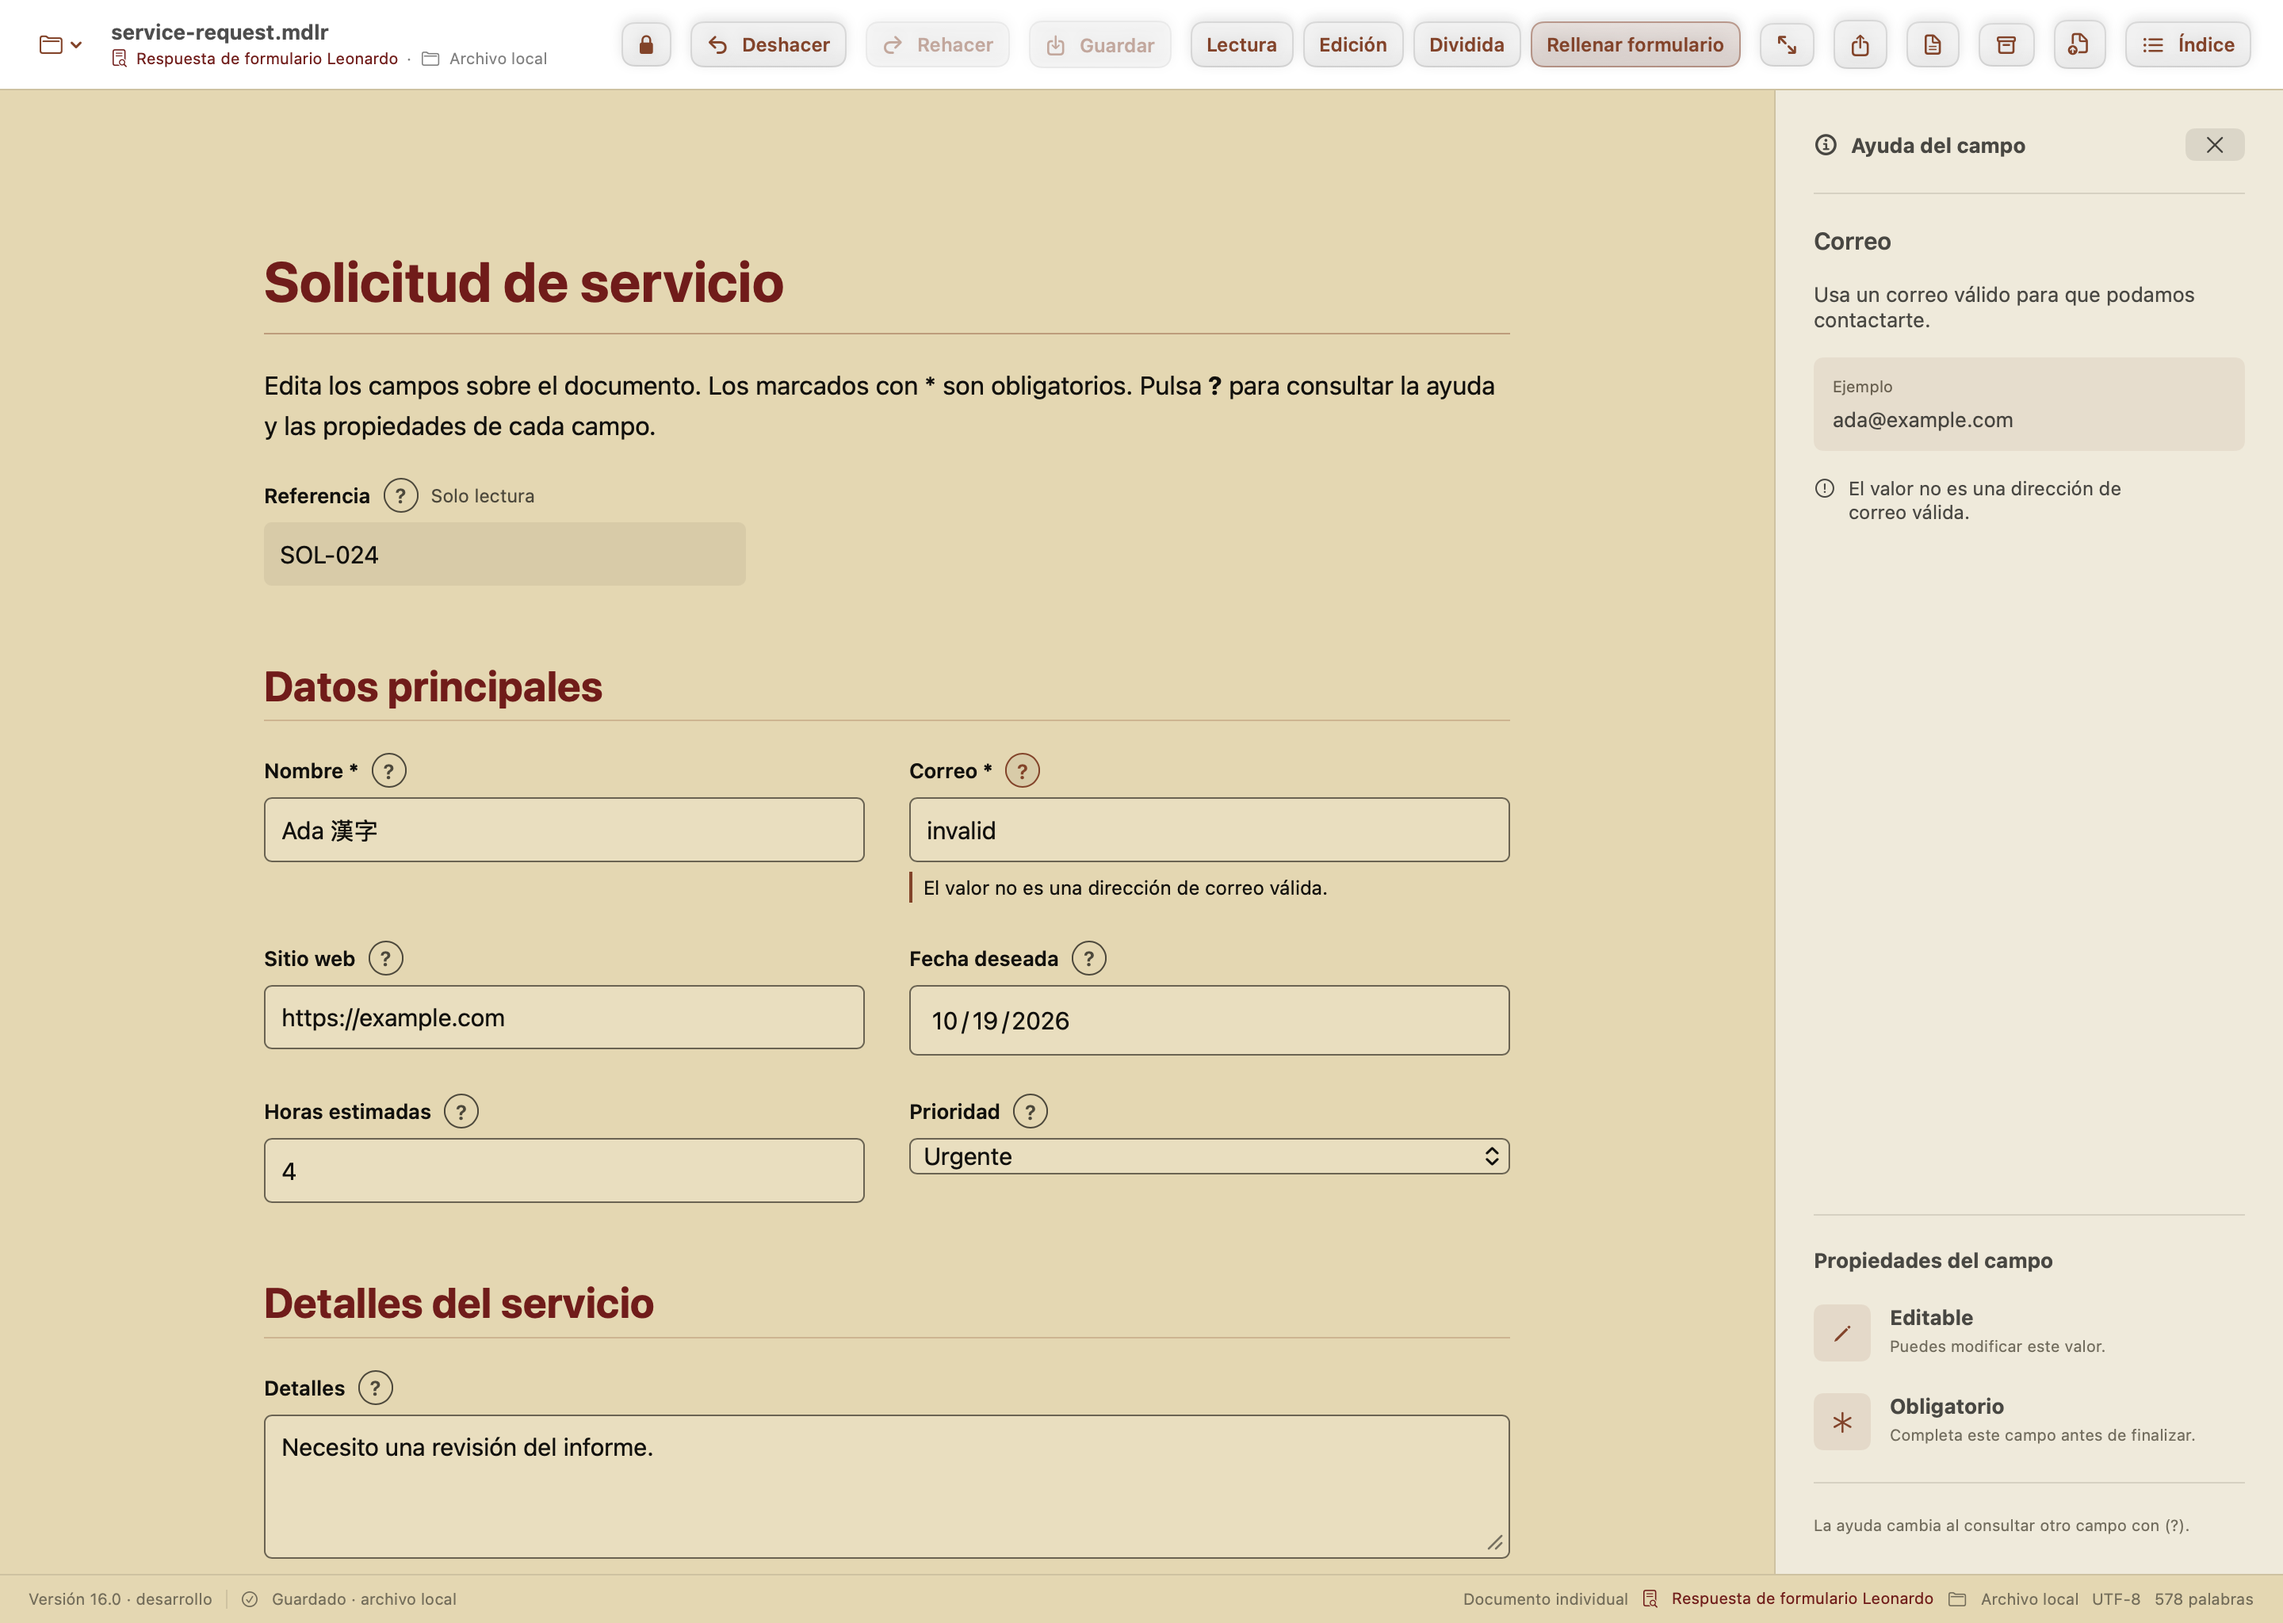
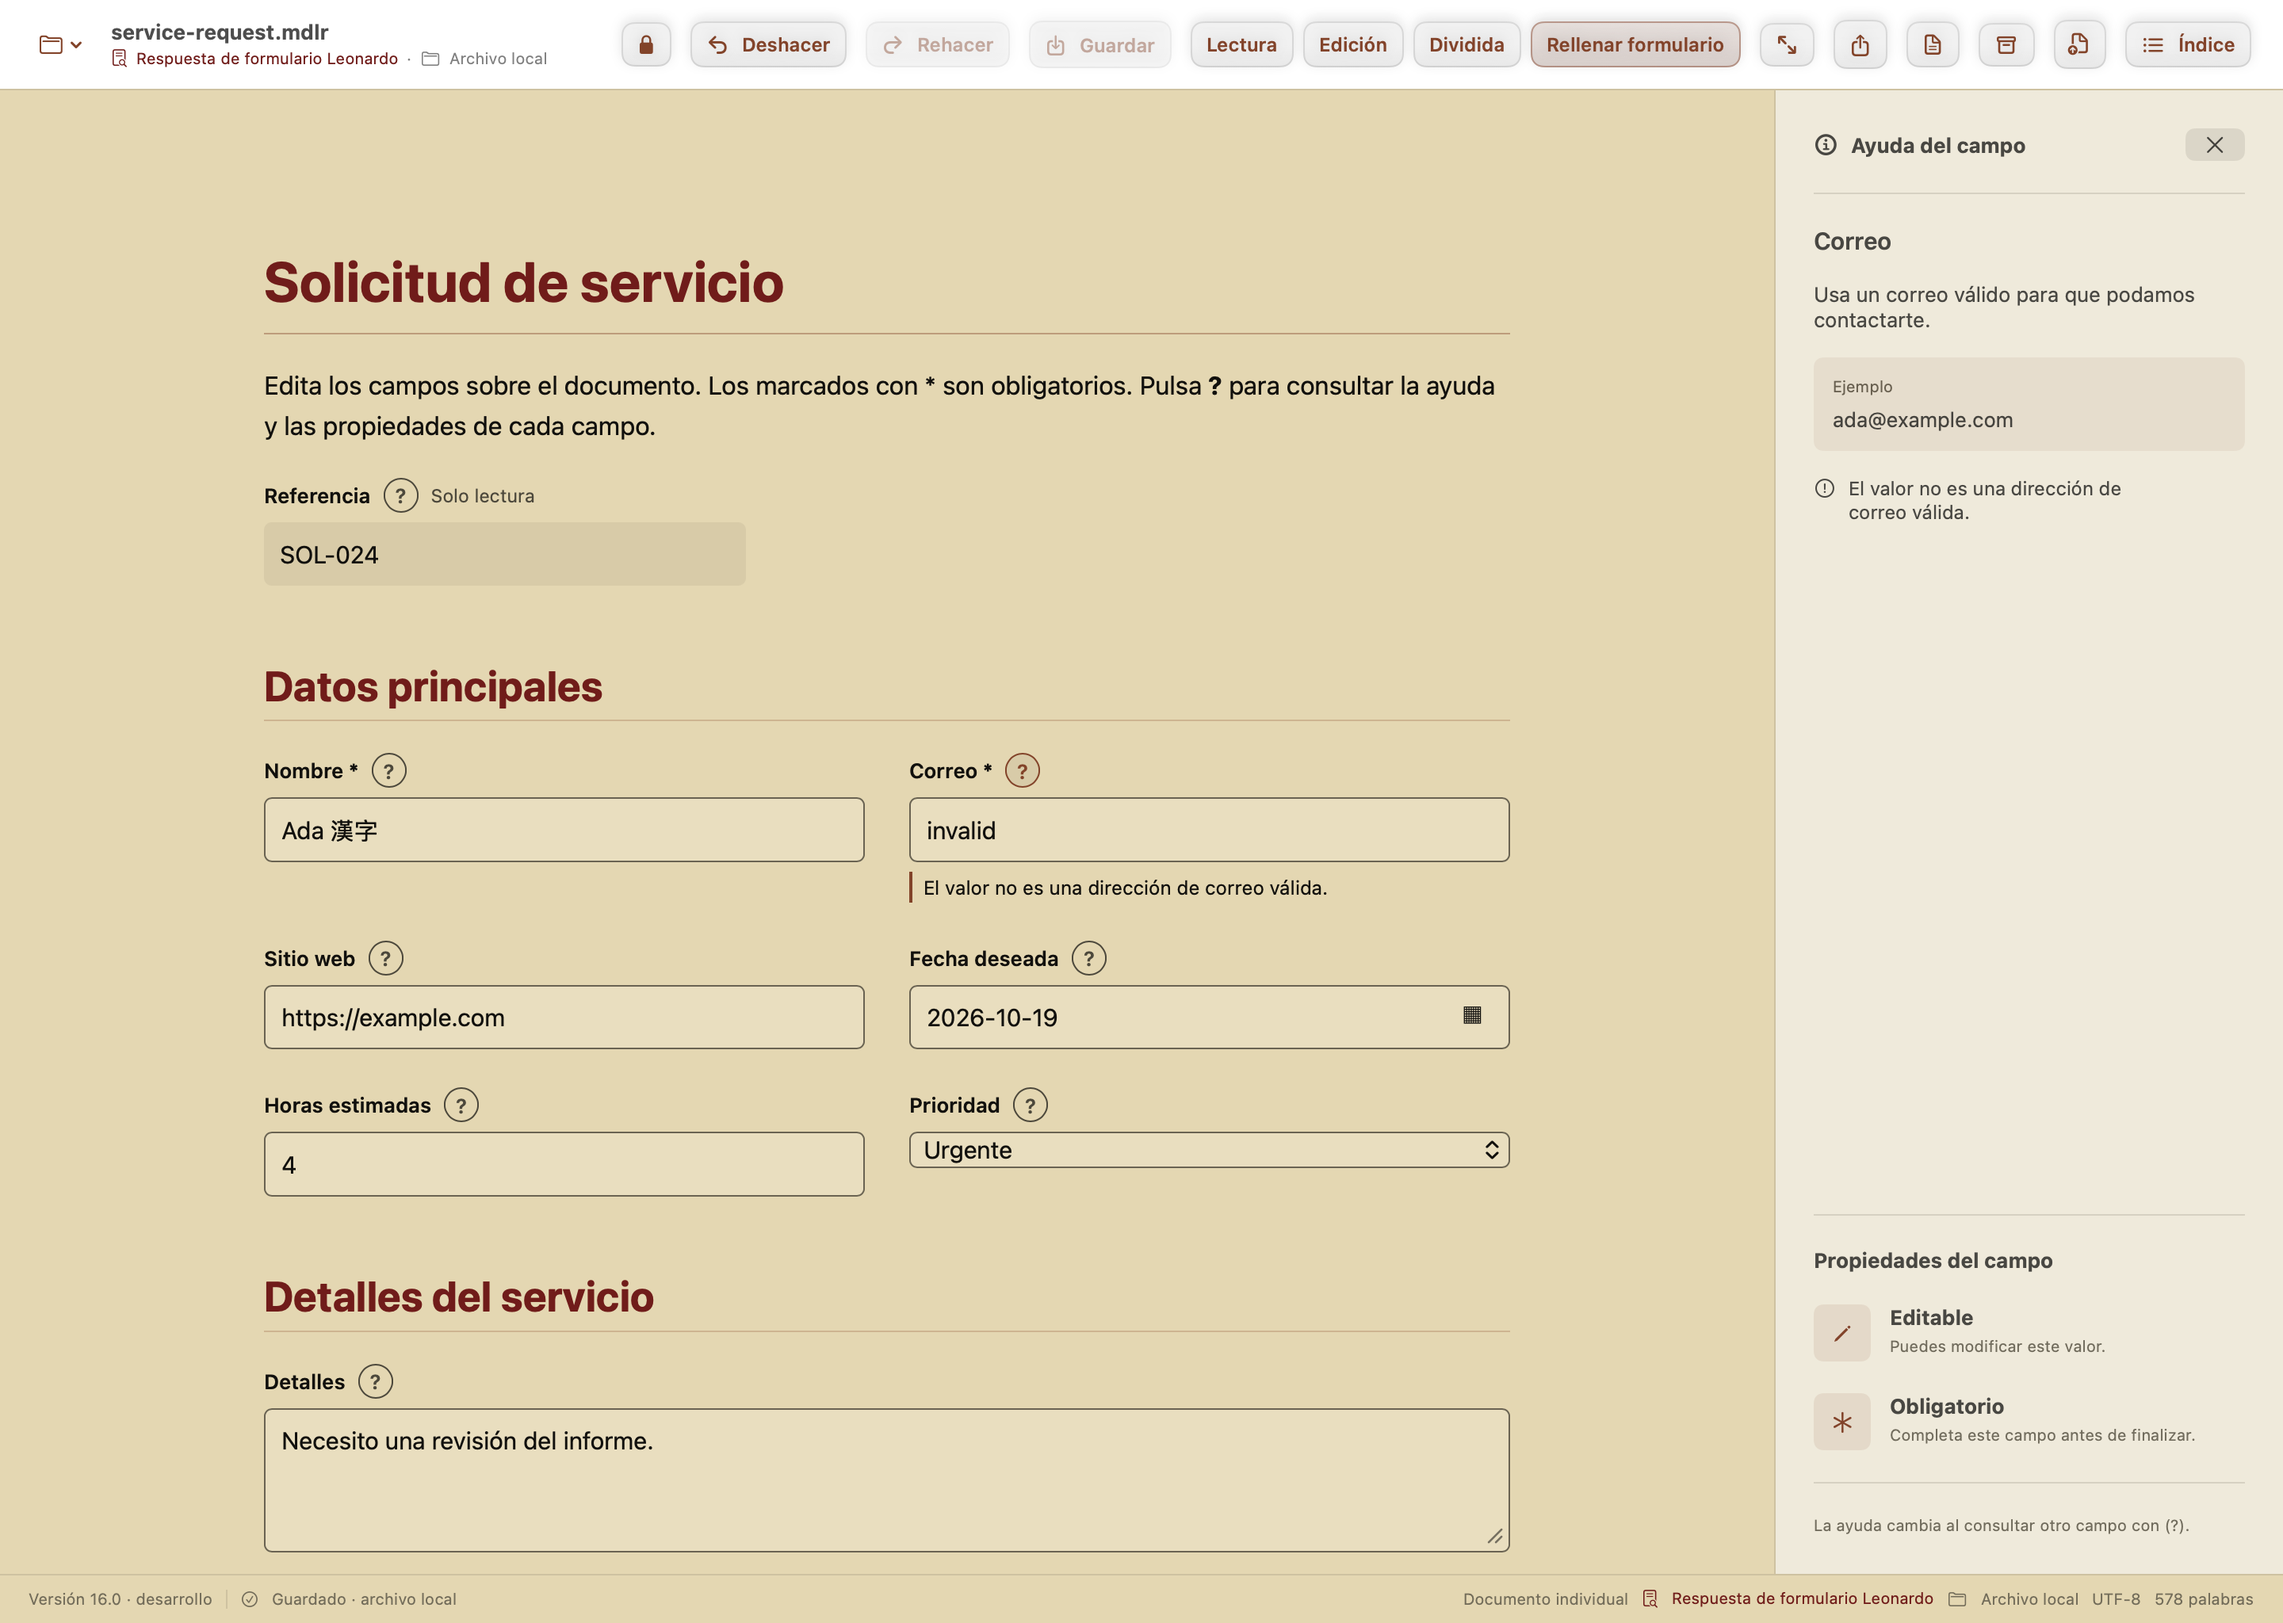
#216 Tested: validate export with current form calendars

diff --git a/doc/validation/markdown-export/README.md b/doc/validation/markdown-export/README.md
@@ -38,13 +38,13 @@ answer reaches Markdown while the original stays unchanged and dirty in memory.
 
 ## Refreshed integration evidence
 
-Recaptured after reconciliation with main `161a171` on 2026-10-20 using the
+Recaptured after reconciliation with main `88b70a9` on 2026-10-20 using the
 final production/test sources. The PR evidence comment binds these committed
 captures to its exact immutable head. Reproduce after building with the
 repository recorder:
 
 ```sh
-LEONARDO_VISUAL_EVIDENCE=/tmp/leonardo-md-merge-evidence swift test --skip-build --filter 'MarkdownExportTests|InlineFormTests'
+LEONARDO_VISUAL_EVIDENCE=/tmp/leonardo-md-calendar-evidence swift test --skip-build --filter 'MarkdownExportTests|InlineFormTests'
 ```
 
 Native macOS XCTest/AppKit host, not a browser. Warning captures are 612×820 pixels (English) and 612×916 pixels
